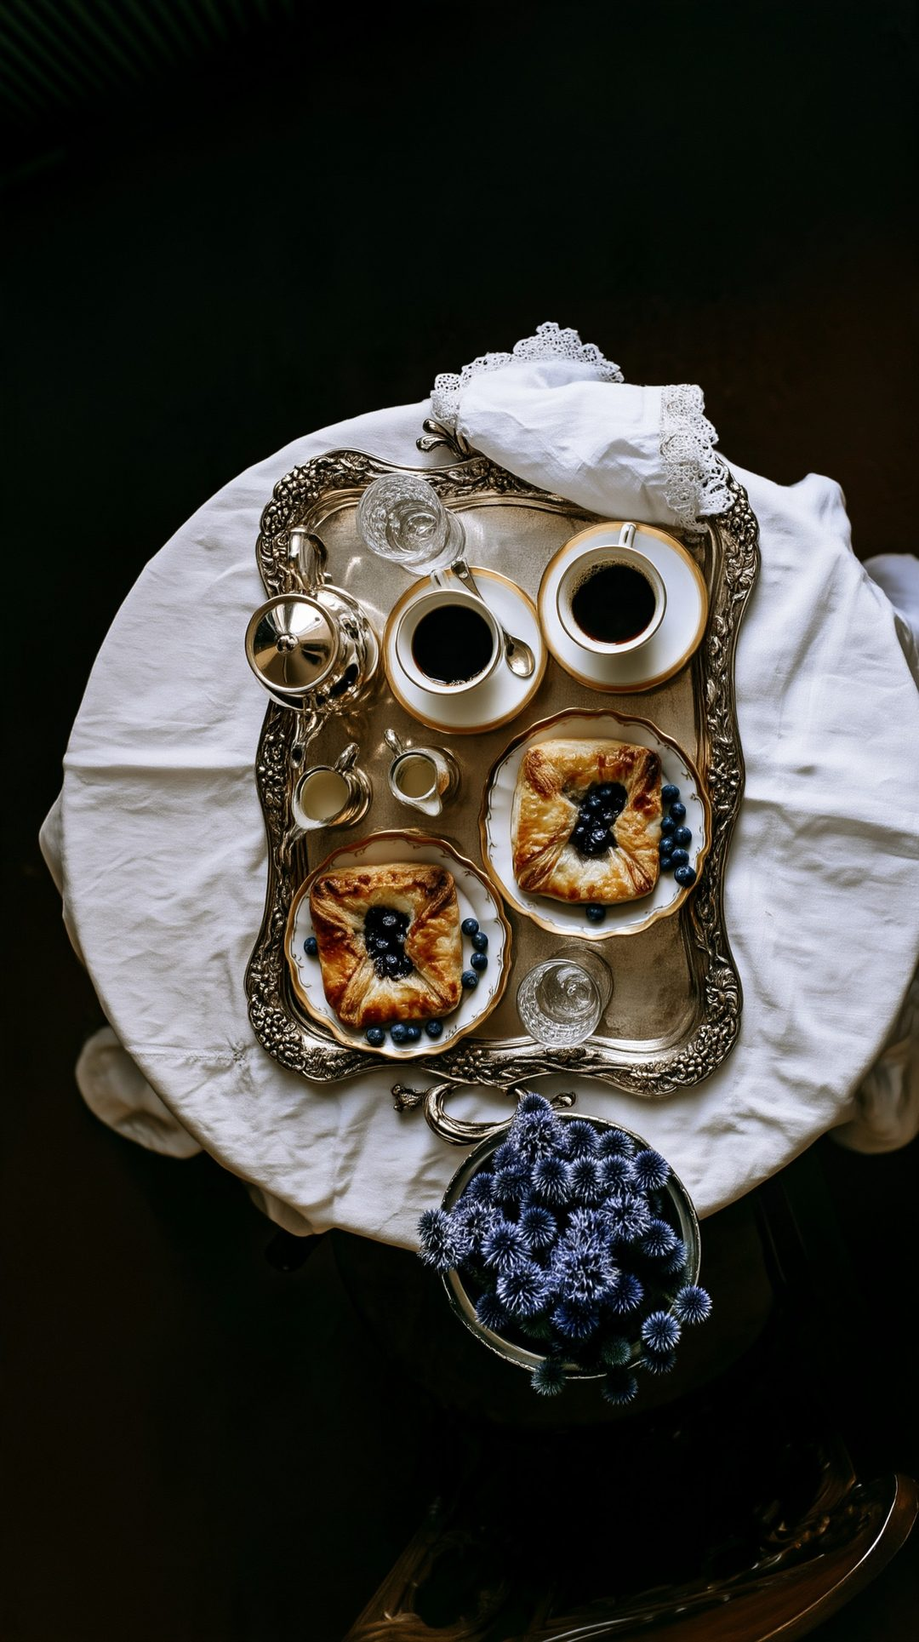
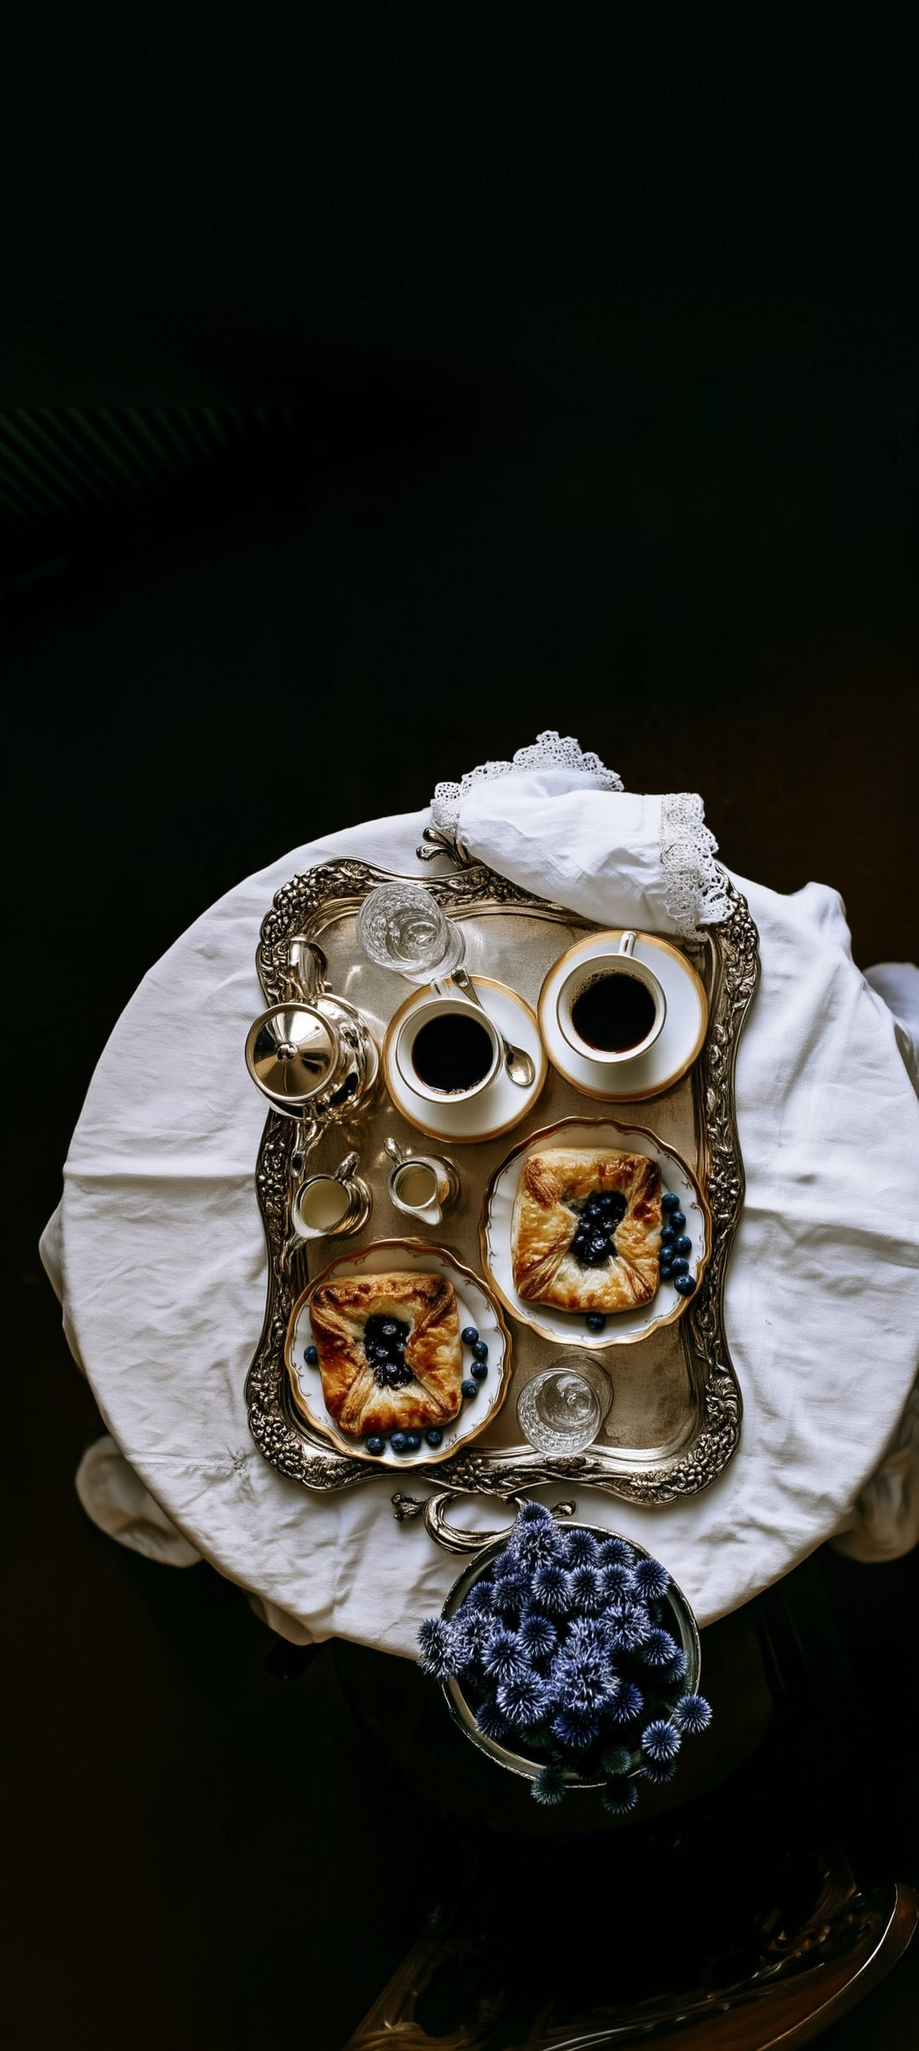
Дизайн 29.10: хиро телефона с логотипом из системы, «О нас» на телефоне отдельным экраном по кнопке, кнопка веса в карточке по центру, фото хиро нарощено тёмным верхом

diff --git a/index.html b/index.html
@@ -246,7 +246,7 @@ h1{font:500 clamp(26px,4.7vh,40px)/1.08 var(--serif);letter-spacing:.06em}
 .card .macro{display:block;aspect-ratio:1/1;overflow:hidden}.card .macro img{width:100%;height:100%;object-fit:contain;display:block}.card .macro.full img{object-fit:cover}
 .card h2{font:500 30px/1.05 var(--serif);letter-spacing:.1em;text-align:center;margin-top:10px}
 .card p{font:400 15px/1.3 var(--serif);color:var(--muted);text-align:center;margin:8px auto 0;hyphens:auto}
-.card .kbju{text-align:center;margin-top:10px}
+.card .kbju{text-align:center;margin-top:10px}.card .cbody{text-align:center}.card .more{display:block;margin:10px auto 0}
 .opts{display:flex;justify-content:center;gap:8px;margin-top:1.4vh;flex-wrap:wrap}
 .opts span{padding:0 16px;height:34px;border-radius:17px;border:1px solid var(--blue-text);color:var(--blue-text);font:600 11px/32px var(--sans);letter-spacing:.16em;text-transform:uppercase;cursor:pointer;-webkit-tap-highlight-color:transparent}
 .opts span.sel{background:var(--blue-action);border-color:var(--blue-action);color:#fff}
@@ -257,7 +257,7 @@ h1{font:500 clamp(26px,4.7vh,40px)/1.08 var(--serif);letter-spacing:.06em}
 .drawer{position:fixed;left:0;right:0;bottom:0;background:#f8f8f8;border-radius:18px 18px 0 0;box-shadow:0 -20px 50px -20px rgba(0,0,0,.35);padding:14px 22px calc(env(safe-area-inset-bottom) + 22px);z-index:26;max-height:92dvh;overflow:auto}
 .grip{width:36px;height:3px;border-radius:2px;background:#d8d3ca;margin:0 auto 10px}
 .xclose{position:absolute;right:22px;top:16px;font:600 10px/1 var(--sans);letter-spacing:.26em;text-transform:uppercase;color:var(--blue-text);cursor:pointer;padding:6px 0 6px 14px;z-index:2}
-@media (min-width:900px){.xclose{display:none}}
+@media (min-width:900px){.xclose{display:none}.about .alinks{display:none}}
 .dim{position:fixed;inset:0;background:rgba(40,40,60,.25);z-index:25}
 .dim[hidden],.drawer[hidden]{display:none}
 .live,.lcard{display:none}
@@ -366,8 +366,10 @@ h1{font:500 clamp(26px,4.7vh,40px)/1.08 var(--serif);letter-spacing:.06em}
 @media (min-width:900px){.cover .mtop,.cover .short,.cover .sep,.cover .tel{display:none}.cover .row2{display:contents}}
 @media (max-width:899px){
  /* хиро по макету Марии 28.10: слоган сверху по центру, внизу МЕНЮ → с чертой, под ним НАПИСАТЬ · ПОЗВОНИТЬ */
- .cover .mtop{position:absolute;left:0;right:0;top:calc(env(safe-area-inset-top) + 12vh);display:flex;justify-content:center;z-index:4;filter:drop-shadow(0 2px 14px rgba(0,0,0,.45))}.cover .mtop img{width:84%;height:auto}
+ .cover .mtop{position:absolute;left:0;right:0;top:calc(env(safe-area-inset-top) + 9vh);display:flex;justify-content:center;z-index:4;filter:drop-shadow(0 2px 14px rgba(0,0,0,.5))}.cover .mtop img{width:min(64%,300px);height:auto}
+ .topnav.oncover .nlogo{opacity:0;pointer-events:none}
  .cover .hleft,.cover .full{display:none}
+ .cover .hbg{background-position:50% 0}  /* фото нарощено тёмным верхом на 480px (29.10): поднос ниже логотипа */
  .cover .hfoot{left:0;right:0;bottom:calc(env(safe-area-inset-bottom) + 30px)}
  .cover .hlinks{display:flex;flex-direction:column;align-items:center;gap:28px;margin-top:0}
  .cover .lk.main{font:500 20px/1 var(--serif);letter-spacing:.42em;gap:18px;padding-bottom:16px;margin-right:-.42em}
@@ -382,10 +384,24 @@ h1{font:500 clamp(26px,4.7vh,40px)/1.08 var(--serif);letter-spacing:.06em}
  .pg{position:relative;inset:auto !important;height:calc(100vh - 22px);height:calc(100dvh - 22px);margin:0 16px 22px 12px;border-radius:12px;box-shadow:0 10px 26px -14px rgba(30,30,40,.45);visibility:visible !important;transform:none !important;opacity:1 !important;will-change:auto;scroll-snap-align:start;scroll-snap-stop:always;scroll-margin-top:calc(env(safe-area-inset-top) + 12px);overflow:hidden;z-index:auto !important;backface-visibility:visible}
  .pg.cover,.pg.about,.pg.footer{height:100vh;height:100dvh;margin:0;border-radius:0;box-shadow:none;scroll-margin-top:0}
  .pg.toc{margin-top:calc(env(safe-area-inset-top) + 12px)}
+ /* «О нас» на телефоне (29.10): скрыт из потока, открывается по кнопке «О нас» как отдельный экран */
+ .pg.about{position:fixed !important;inset:0 !important;height:100dvh !important;margin:0 !important;z-index:40 !important;display:none;overflow:auto !important;-webkit-overflow-scrolling:touch;overscroll-behavior:contain;border-radius:0;box-shadow:none}
+ .pg.about.show{display:block}
+ .about .aimg{position:relative;height:46vh;height:46dvh;background-position:center 42%}
+ .about .aimg::after{background:linear-gradient(180deg,rgba(0,0,0,.22),rgba(0,0,0,0) 36%,rgba(248,248,248,0) 70%,#f8f8f8 100%)}
+ .about .atxt{position:static;padding:6px 26px calc(env(safe-area-inset-bottom) + 40px);overflow:visible}
+ .about .caps{font-size:9.5px;letter-spacing:.3em;line-height:1.7}
+ .about h2{font-size:31px;line-height:1.12;margin-top:12px;letter-spacing:.06em}
+ .about p{font-size:15.5px;line-height:1.55;margin-top:14px;max-width:none}
+ .about .facts{margin-top:22px;line-height:1.9;font-size:9.5px}
+ .about .alinks{margin-top:28px;gap:22px 30px}.about .lk{font-size:12px;letter-spacing:.28em}
+ .about .xclose{position:fixed;right:16px;top:calc(env(safe-area-inset-top) + 14px);padding:9px 13px 9px 15px;border-radius:20px;background:rgba(248,248,248,.88);backdrop-filter:blur(6px);-webkit-backdrop-filter:blur(6px);color:var(--blue-text);z-index:3}
+ .topnav.aboutopen{opacity:0;visibility:hidden}
  .pg::before,.pg::after{display:none}
  #stage:not(.bookopen) .pg:nth-of-type(n+4){display:none}
 }
 @media (max-width:899px) and (max-height:600px){
+ .cover .hbg{background-position:50% 44%}.cover .mtop{top:calc(env(safe-area-inset-top) + 16px)}.cover .mtop img{width:min(40%,220px)}
  /* низкий или альбомный экран: оглавление, витрины, списки и вкладыш растут по содержимому, лист снапится по верху */
  .pg.tocpg,.pg.divider,.pg.grid-pg,.pg.list-pg,.pg.plist-pg{height:auto;min-height:calc(100dvh - 22px)}
  .tocpg .tv{position:relative;inset:auto;padding:calc(env(safe-area-inset-top) + 118px) 22px 36px}
@@ -426,7 +442,7 @@ h1{font:500 clamp(26px,4.7vh,40px)/1.08 var(--serif);letter-spacing:.06em}
  <div class="block c"></div><div class="block l"></div><div class="block r"></div><div class="block b"></div><div class="block s"></div>
  <section class="pg cover" id="pg-cover"><h1 style="position:absolute;width:1px;height:1px;overflow:hidden;clip:rect(0 0 0 0)">Цветочный бар — чайная, кафе-пекарня и цветочная студия в ЖК Level Причальный, Москва</h1>
   <div class="hbg"></div>
-  <div class="mtop"><img src="assets/slogan-script-white.png" alt="И чай попить, и цветы купить!"></div>
+  <div class="mtop"><img src="assets/logo-cover-900.png" alt="Цветочный бар. И чай попить, и цветы купить!"></div>
   <div class="hfoot">
    <div class="hleft"><img class="slogan" src="assets/slogan-caps-cream.png" alt="И чай попить, и цветы купить!"><div class="meta">Горячая еда и выпечка по ЖК Level Причальный за 20 минут<br>Печём каждое утро · Ежедневно 8:00–21:00</div></div>
    <div class="hlinks"><span class="lk main" data-go="toc"><span class="full">Открыть меню</span><span class="short">Меню</span><i></i></span><div class="row2"><span class="lk" data-info="write">Написать<i></i></span><span class="sep">·</span><a class="lk tel" href="tel:+79295888778">Позвонить</a></div></div>
@@ -488,11 +504,13 @@ const thm=c=>c&&c.theme?' th-'+c.key:'';
 for(const p of M.pages){const c=CHAP[p.chapter];
  if(p.kind==='about'){
   html+=`<section class="pg about" id="${p.id}" aria-label="О нас"><div class="aimg" id="aboutImg" role="img" aria-label="Ромовая баба, макро"></div>
-   <div class="atxt"><div class="caps">О нас · Кафе-пекарня в ЖК Level Причальный</div><h2>Чайная в духе дворянской усадьбы</h2>
+   <div class="atxt"><div class="caps">О нас · ЖК Level Причальный</div><h2>Чайная в духе дворянской усадьбы</h2>
    <p>«Цветочный бар» объединяет чайную, кафе-пекарню и цветочную студию в одном доме на Причальном проезде в Москве. Мы вдохновлялись чаепитиями в дворянских усадьбах начала прошлого века: самовар на столе, фарфор с цветочным кантом, долгий разговор. У нас подают завтраки, каждое утро пекут свежую выпечку, заваривают чай и готовят кофе. В меню домашняя русская кухня по старым рецептам: борщ по рецепту 1779 года, голубцы 1897 года, сырники, пельмени и блины.</p>
    <p>Нас ведёт образ дома русской интеллигенции: уют, сад, тихая душевность, книга на столе. Отсюда интерьер — библиотечный шкаф, тёмный дуб, латунь и кобальтовые изразцы Императорского фарфорового завода, и отсюда же посуда, в которой мы подаём завтраки и чай.</p>
    <p>Сюда приходят за настроением: позавтракать, замедлиться, выпить чаю, полистать книгу. Любое блюдо из меню можно попробовать в кафе или заказать домой. Доставка еды по ЖК Level Причальный занимает 20 минут. Здесь же, в цветочной студии, собирают букеты: можно зайти на чай и уйти с цветами.</p>
-   <div class="facts">Причальный проезд, 10к2 · Ежедневно 8:00–21:00 · Доставка по ЖК за 20 минут</div></div></section>`;}
+   <div class="facts">Причальный проезд, 10к2 · Ежедневно 8:00–21:00 · Доставка по ЖК за 20 минут</div>
+   <div class="alinks"><span class="lk main" data-go="toc">Меню<i></i></span><a class="lk" href="tel:+79295888778">Позвонить<i></i></a></div></div>
+   <span class="xclose" data-about-close>Закрыть ×</span></section>`;}
  else if(p.kind==='footer'){
   html+=`<section class="pg footer" id="${p.id}" aria-label="Контакты и документы"><div class="fv"><div class="fgrid">
    <div class="fcol"><img class="flogo" src="assets/monogram-white.svg" alt="Цветочный бар"><div class="addr">Цветочный бар<br>Москва, Причальный проезд, 10к2<br>ЖК Level Причальный</div><img class="slog" src="assets/slogan-caps-cream.png" alt="И чай попить, и цветы купить"></div>
@@ -567,7 +585,7 @@ function load(el){ if(!el||el.dataset.loaded)return; el.dataset.loaded=1;
 function set(el,tr,z,sh,dk){if(!el)return;el.style.transform=tr;el.style.zIndex=z;el.style.setProperty('--sh',sh);el.style.setProperty('--dk',dk)}
 function render(p){
  p=Math.max(0,Math.min(N-1,p));const i=Math.floor(p),t=p-i,th=180*t,s=Math.sin(rad(th));
- chrome.classList.toggle('off',p<2.5);stage.classList.toggle('closed',p<2.5);const cur=ORDER[Math.round(p)];tabs.classList.toggle('off',p<2.5||cur==='toc'||cur==='book');stage.classList.toggle('onbook',cur==='book'&&p<ORDER.indexOf('book')+0.5);const tn=document.getElementById('topnav');tn.classList.toggle('off',p>=2.5);tn.classList.toggle('dark',p>=0.5&&p<1.5);setChapter(cur);
+ chrome.classList.toggle('off',p<2.5);stage.classList.toggle('closed',p<2.5);const cur=ORDER[Math.round(p)];tabs.classList.toggle('off',p<2.5||cur==='toc'||cur==='book');stage.classList.toggle('onbook',cur==='book'&&p<ORDER.indexOf('book')+0.5);const tn=document.getElementById('topnav');tn.classList.toggle('off',p>=2.5);tn.classList.toggle('dark',p>=0.5&&p<1.5);tn.classList.toggle('oncover',p<0.5);setChapter(cur);
  for(let k=Math.max(0,i-1);k<=Math.min(N-1,i+2);k++){load(L[k]);load(R[k])}
  if(isDesk)for(let k=0;k<N;k++){const on=k===i||k===i+1;[L[k],R[k]].forEach(el=>{if(!el)return;el.classList.toggle('on',on);if(!on)set(el,'',0,0,0)})}
  if(isDesk){
@@ -578,14 +596,17 @@ function render(p){
  }
 }
 const vh=()=>innerHeight;let frozen=false;
-const smt=el=>parseFloat(getComputedStyle(el).scrollMarginTop)||0;const ptop=k=>L[k].offsetTop-smt(L[k]);
+const smt=el=>parseFloat(getComputedStyle(el).scrollMarginTop)||0;const ptop=k=>{let el=L[k];if(!isDesk&&el.classList.contains('about')&&L[k+1])el=L[k+1];return el.offsetTop-smt(el)};
 function posP(){const y=scrollY;let k=0;while(k+1<N&&ptop(k+1)<=y+1)k++;const a=ptop(k),b=k+1<N?ptop(k+1):a+innerHeight;return k+Math.max(0,Math.min(1,(y-a)/Math.max(1,b-a)))}
 const curP=()=>isDesk?scrollY/vh():posP();
 addEventListener('scroll',()=>{if(!frozen)requestAnimationFrame(()=>render(curP()))},{passive:true});
 addEventListener('resize',()=>{if(!frozen)render(curP())});
 function openMenu(){go('toc',false)}
 const RM=matchMedia('(prefers-reduced-motion: reduce)').matches;
-function go(id,smooth=true){if(RM)smooth=false;openBook();let idx=ORDER.indexOf(id);if(idx<0){const c=CHAP[id];if(c)idx=ORDER.indexOf(c.first.replace(/^pg-/,''))}if(idx<0)idx=0;
+const aboutEl=document.getElementById('pg-about');
+function openAbout(){if(!aboutEl)return;aboutEl.classList.add('show');aboutEl.scrollTop=0;document.getElementById('topnav').classList.add('aboutopen');dlgOpen(aboutEl)}
+function closeAbout(){if(!aboutEl||!aboutEl.classList.contains('show'))return;aboutEl.classList.remove('show');document.getElementById('topnav').classList.remove('aboutopen');dlgClose(aboutEl)}
+function go(id,smooth=true){if(RM)smooth=false;if(!isDesk&&id==='about')return openAbout();openBook();let idx=ORDER.indexOf(id);if(idx<0){const c=CHAP[id];if(c)idx=ORDER.indexOf(c.first.replace(/^pg-/,''))}if(idx<0)idx=0;
  scrollTo({top:isDesk?idx*vh():ptop(idx),behavior:smooth?'smooth':'instant'});render(idx)}
 function fitTitles(){
  document.querySelectorAll('h1').forEach(h=>{h.style.fontSize='';h.style.letterSpacing='';h.style.whiteSpace='normal';const lh=()=>parseFloat(getComputedStyle(h).lineHeight);let fs=parseFloat(getComputedStyle(h).fontSize);
@@ -605,14 +626,14 @@ function fixGrids(){fitCellNames();document.querySelectorAll('.grid').forEach(g=
  cells.forEach((c,i)=>{c.classList.toggle('nr',(i+1)%cols===0||i===n-1&&!(n%cols===1&&n>cols));c.classList.toggle('nb',i>=(rows-1)*cols);c.classList.remove('center')});
  if(cols===3&&n%3===1&&n>3){const last=cells[n-1];last.classList.add('center');last.classList.remove('nr');const r0=(rows-2)*cols;for(let i=r0;i<r0+cols;i++)cells[i].classList.toggle('nb',i%cols!==1)}})}
 function fitAll(){fitTitles();fitDesc();fitSheets();fixGrids()}
-const A11Y='[data-go],[data-add],[data-open],[data-info],[data-legal],[data-home],[data-more],[data-choice],[data-var],[data-close],[data-cartclose],[data-info-close],[data-nav-close],[data-toc-close],[data-burger],.tabs .t,.cell,.trow,.flag,.basket';
+const A11Y='[data-go],[data-add],[data-open],[data-info],[data-legal],[data-home],[data-more],[data-choice],[data-var],[data-close],[data-cartclose],[data-info-close],[data-nav-close],[data-about-close],[data-toc-close],[data-burger],.tabs .t,.cell,.trow,.flag,.basket';
 function a11y(root=document){root.querySelectorAll(A11Y).forEach(el=>{if(el.tagName!=='A'&&el.tagName!=='BUTTON'&&!el.hasAttribute('tabindex')){el.setAttribute('tabindex','0');el.setAttribute('role','button')}})}
 a11y();
 /* диалоги: фокус внутрь, Escape закрывает верхний, Tab не уходит в фон, фокус возвращается */
 const DLG=[];let lastFocus=null;
-function dlgOpen(el){if(!el||DLG.includes(el))return;if(!DLG.length)lastFocus=document.activeElement;DLG.push(el);el.setAttribute('role','dialog');el.setAttribute('aria-modal','true');el.setAttribute('tabindex','-1');a11y(el);setTimeout(()=>{if(!DLG.includes(el))return;const f=el.querySelector('[data-close],[data-cartclose],[data-info-close],[data-nav-close],[data-toc-close]');(f||el).focus({preventScroll:true})},30)}
+function dlgOpen(el){if(!el||DLG.includes(el))return;if(!DLG.length)lastFocus=document.activeElement;DLG.push(el);el.setAttribute('role','dialog');el.setAttribute('aria-modal','true');el.setAttribute('tabindex','-1');a11y(el);setTimeout(()=>{if(!DLG.includes(el))return;const f=el.querySelector('[data-close],[data-cartclose],[data-info-close],[data-nav-close],[data-about-close],[data-toc-close]');(f||el).focus({preventScroll:true})},30)}
 function dlgClose(el){const k=DLG.indexOf(el);if(k>=0)DLG.splice(k,1);if(!DLG.length){if(lastFocus&&lastFocus.focus)lastFocus.focus({preventScroll:true});lastFocus=null}else DLG[DLG.length-1].focus({preventScroll:true})}
-function closeTop(){const el=DLG[DLG.length-1];if(!el)return false;if(el===info)closeInfo();else if(el===cart)closeCart();else if(el===drawer)closeCard();else if(el===toc){toc.hidden=true;dlgClose(toc)}else if(el===sheetnav){sheetnav.hidden=true;dlgClose(sheetnav)}return true}
+function closeTop(){const el=DLG[DLG.length-1];if(!el)return false;if(el===info)closeInfo();else if(el===cart)closeCart();else if(el===drawer)closeCard();else if(el===toc){toc.hidden=true;dlgClose(toc)}else if(el===sheetnav){sheetnav.hidden=true;dlgClose(sheetnav)}else if(el===aboutEl)closeAbout();return true}
 document.addEventListener('keydown',e=>{
  if(e.key==='Escape'&&closeTop()){e.preventDefault();return}
  if(e.key==='Tab'&&DLG.length){const el=DLG[DLG.length-1];const f=[...el.querySelectorAll('a[href],button,[tabindex]:not([tabindex="-1"])')].filter(x=>!x.hidden&&x.offsetParent!==null);if(!f.length)return;const a=f[0],z=f[f.length-1];if(e.shiftKey&&(document.activeElement===a||document.activeElement===el)){e.preventDefault();z.focus()}else if(!e.shiftKey&&document.activeElement===z){e.preventDefault();a.focus()}return}
@@ -711,6 +732,7 @@ document.addEventListener('click',e=>{const q=s=>e.target.closest(s);let x;
  if(x=q('[data-info]'))return openInfo(x.dataset.info);
  if(q('[data-burger]')){sheetnav.hidden=false;dlgOpen(sheetnav);return}
  if(q('[data-nav-close]')){sheetnav.hidden=true;dlgClose(sheetnav);return}
+ if(q('[data-about-close]')){closeAbout();return}
  if(x=q('.hnav .ni.has')&&!q('.sub')){document.querySelectorAll('.hnav .ni.open').forEach(n=>n.classList.remove('open'));return openMenu()}
  if(x=q('[data-more]')){x.closest('.body,.cbody').classList.toggle('x');fitSheets();return}
  if(x=q('[data-choice]')){const box=x.closest('.opts');box.querySelectorAll('span').forEach(s=>s.classList.toggle('sel',s===x));return}
@@ -721,7 +743,7 @@ document.addEventListener('click',e=>{const q=s=>e.target.closest(s);let x;
  if(q('[data-cartclose]'))return closeCart();
  if(q('[data-close]'))return closeCard();
  if(q('[data-toc-close]')){toc.hidden=true;dlgClose(toc);return}
- if(x=q('[data-go]')){toc.hidden=true;dlgClose(toc);sheetnav.hidden=true;dlgClose(sheetnav);closeInfo();document.querySelectorAll('.hnav .ni.open').forEach(n=>n.classList.remove('open'));if(x.dataset.go==='toc'&&!bookOpen)return openMenu();return go(x.dataset.go)}
+ if(x=q('[data-go]')){toc.hidden=true;dlgClose(toc);sheetnav.hidden=true;dlgClose(sheetnav);closeInfo();if(x.dataset.go!=='about')closeAbout();document.querySelectorAll('.hnav .ni.open').forEach(n=>n.classList.remove('open'));if(x.dataset.go==='toc'&&!bookOpen)return openMenu();return go(x.dataset.go)}
  if(!isDesk&&(x=q('.sheet[data-item]'))&&!q('.head,.body'))return openCard(x.dataset.item);   /* телефон: тап по фото на листе = карточка с макро */
  if(x=q('.cell,.trow'))return openCard(x.dataset.id)});
 
@@ -729,7 +751,7 @@ restoreCart();
 /* ---------- параметры превью: ?page=<id|глава>, ?p=1.35, ?open=<id>, ?toc=1, ?cart=demo ---------- */
 const Q=new URLSearchParams(location.search);
 if(Q.get('p')||Q.get('page'))chrome.style.transition='none';
-if(Q.get('p')){const pp=parseFloat(Q.get('p'));frozen=true;if(!isDesk){if(pp>=3)openBook();scrollTo({top:ptop(Math.round(pp)),behavior:'instant'})}render(pp)}
+if(Q.get('p')){const pp=parseFloat(Q.get('p'));frozen=true;if(!isDesk){if(pp>=3)openBook();scrollTo({top:ptop(Math.round(pp)),behavior:'instant'});if(Math.round(pp)===1)openAbout()}render(pp)}
 else if(Q.get('page'))go(Q.get('page'),false);
 else render(0);
 if(Q.get('open'))openCard(Q.get('open'));
